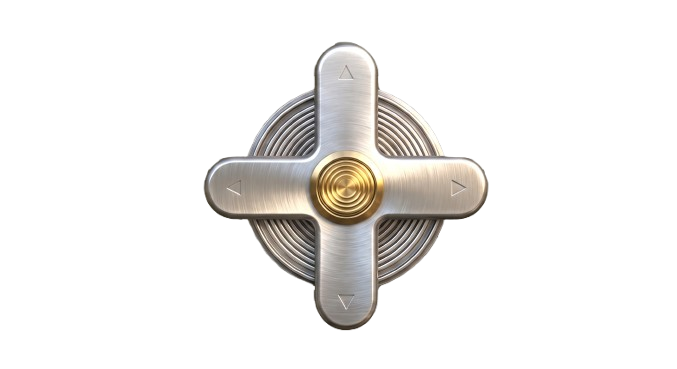
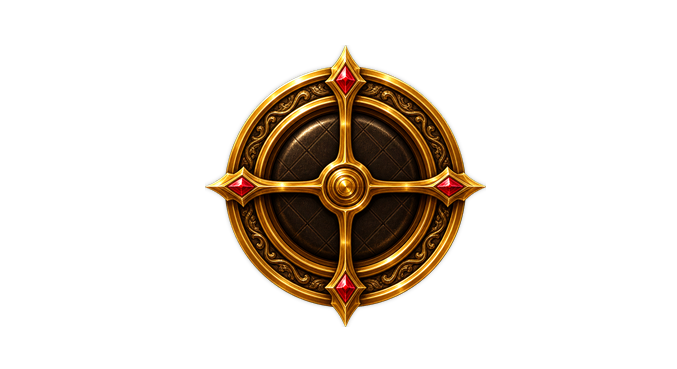
corrigido o comando (d)

Changed region(s): [[0.2792, 0.0894, 0.7445, 0.8943]]

diff --git a/Server Source Mobile/5.Main/source/android_main.cpp b/Server Source Mobile/5.Main/source/android_main.cpp
@@ -1524,6 +1524,7 @@ void SaveVirtualSkillSlots();
 void DeactivateVirtualAssignMode(const char* reason);
 void ClearVirtualPickerTouch();
 void ClearVirtualCombatTouches();
+void ClearAndroidLongPressRightClick(bool releaseRightButton);
 bool ShouldHideVirtualCombatHud();
 
 void SanitizeVirtualSkillSlots()
@@ -5177,6 +5178,8 @@ bool HandleVirtualFingerDown(const SDL_TouchFingerEvent& touch)
     {
         ClearVirtualCombatTouches();
         ClearVirtualPickerTouch();
+        ClearVirtualJoystick();
+        ClearAndroidLongPressRightClick(true);
         if (g_pSkillList != nullptr && g_pSkillList->IsSkillPickerOpen())
         {
             g_pSkillList->SetSkillPickerOpen(false);
@@ -5374,7 +5377,7 @@ bool IsAndroidLongPressRightClickTarget(int characterIndex)
 
 void StartAndroidLongPressRightClick(const SDL_TouchFingerEvent& touch)
 {
-    if (!IsVirtualPadAvailable())
+    if (!IsVirtualPadAvailable() || ShouldHideVirtualCombatHud())
     {
         ClearAndroidLongPressRightClick(false);
         return;
@@ -5434,7 +5437,7 @@ void UpdateAndroidLongPressRightClick()
         return;
     }
 
-    if (!IsVirtualPadAvailable())
+    if (!IsVirtualPadAvailable() || ShouldHideVirtualCombatHud())
     {
         ClearAndroidLongPressRightClick(false);
         return;
@@ -7400,6 +7403,7 @@ void RenderVirtualPad()
     {
         ClearVirtualCombatTouches();
         ClearVirtualPickerTouch();
+        RenderAndroidTradePicker();
         if (g_pSkillList != nullptr && g_pSkillList->IsSkillPickerOpen())
         {
             g_pSkillList->SetSkillPickerOpen(false);